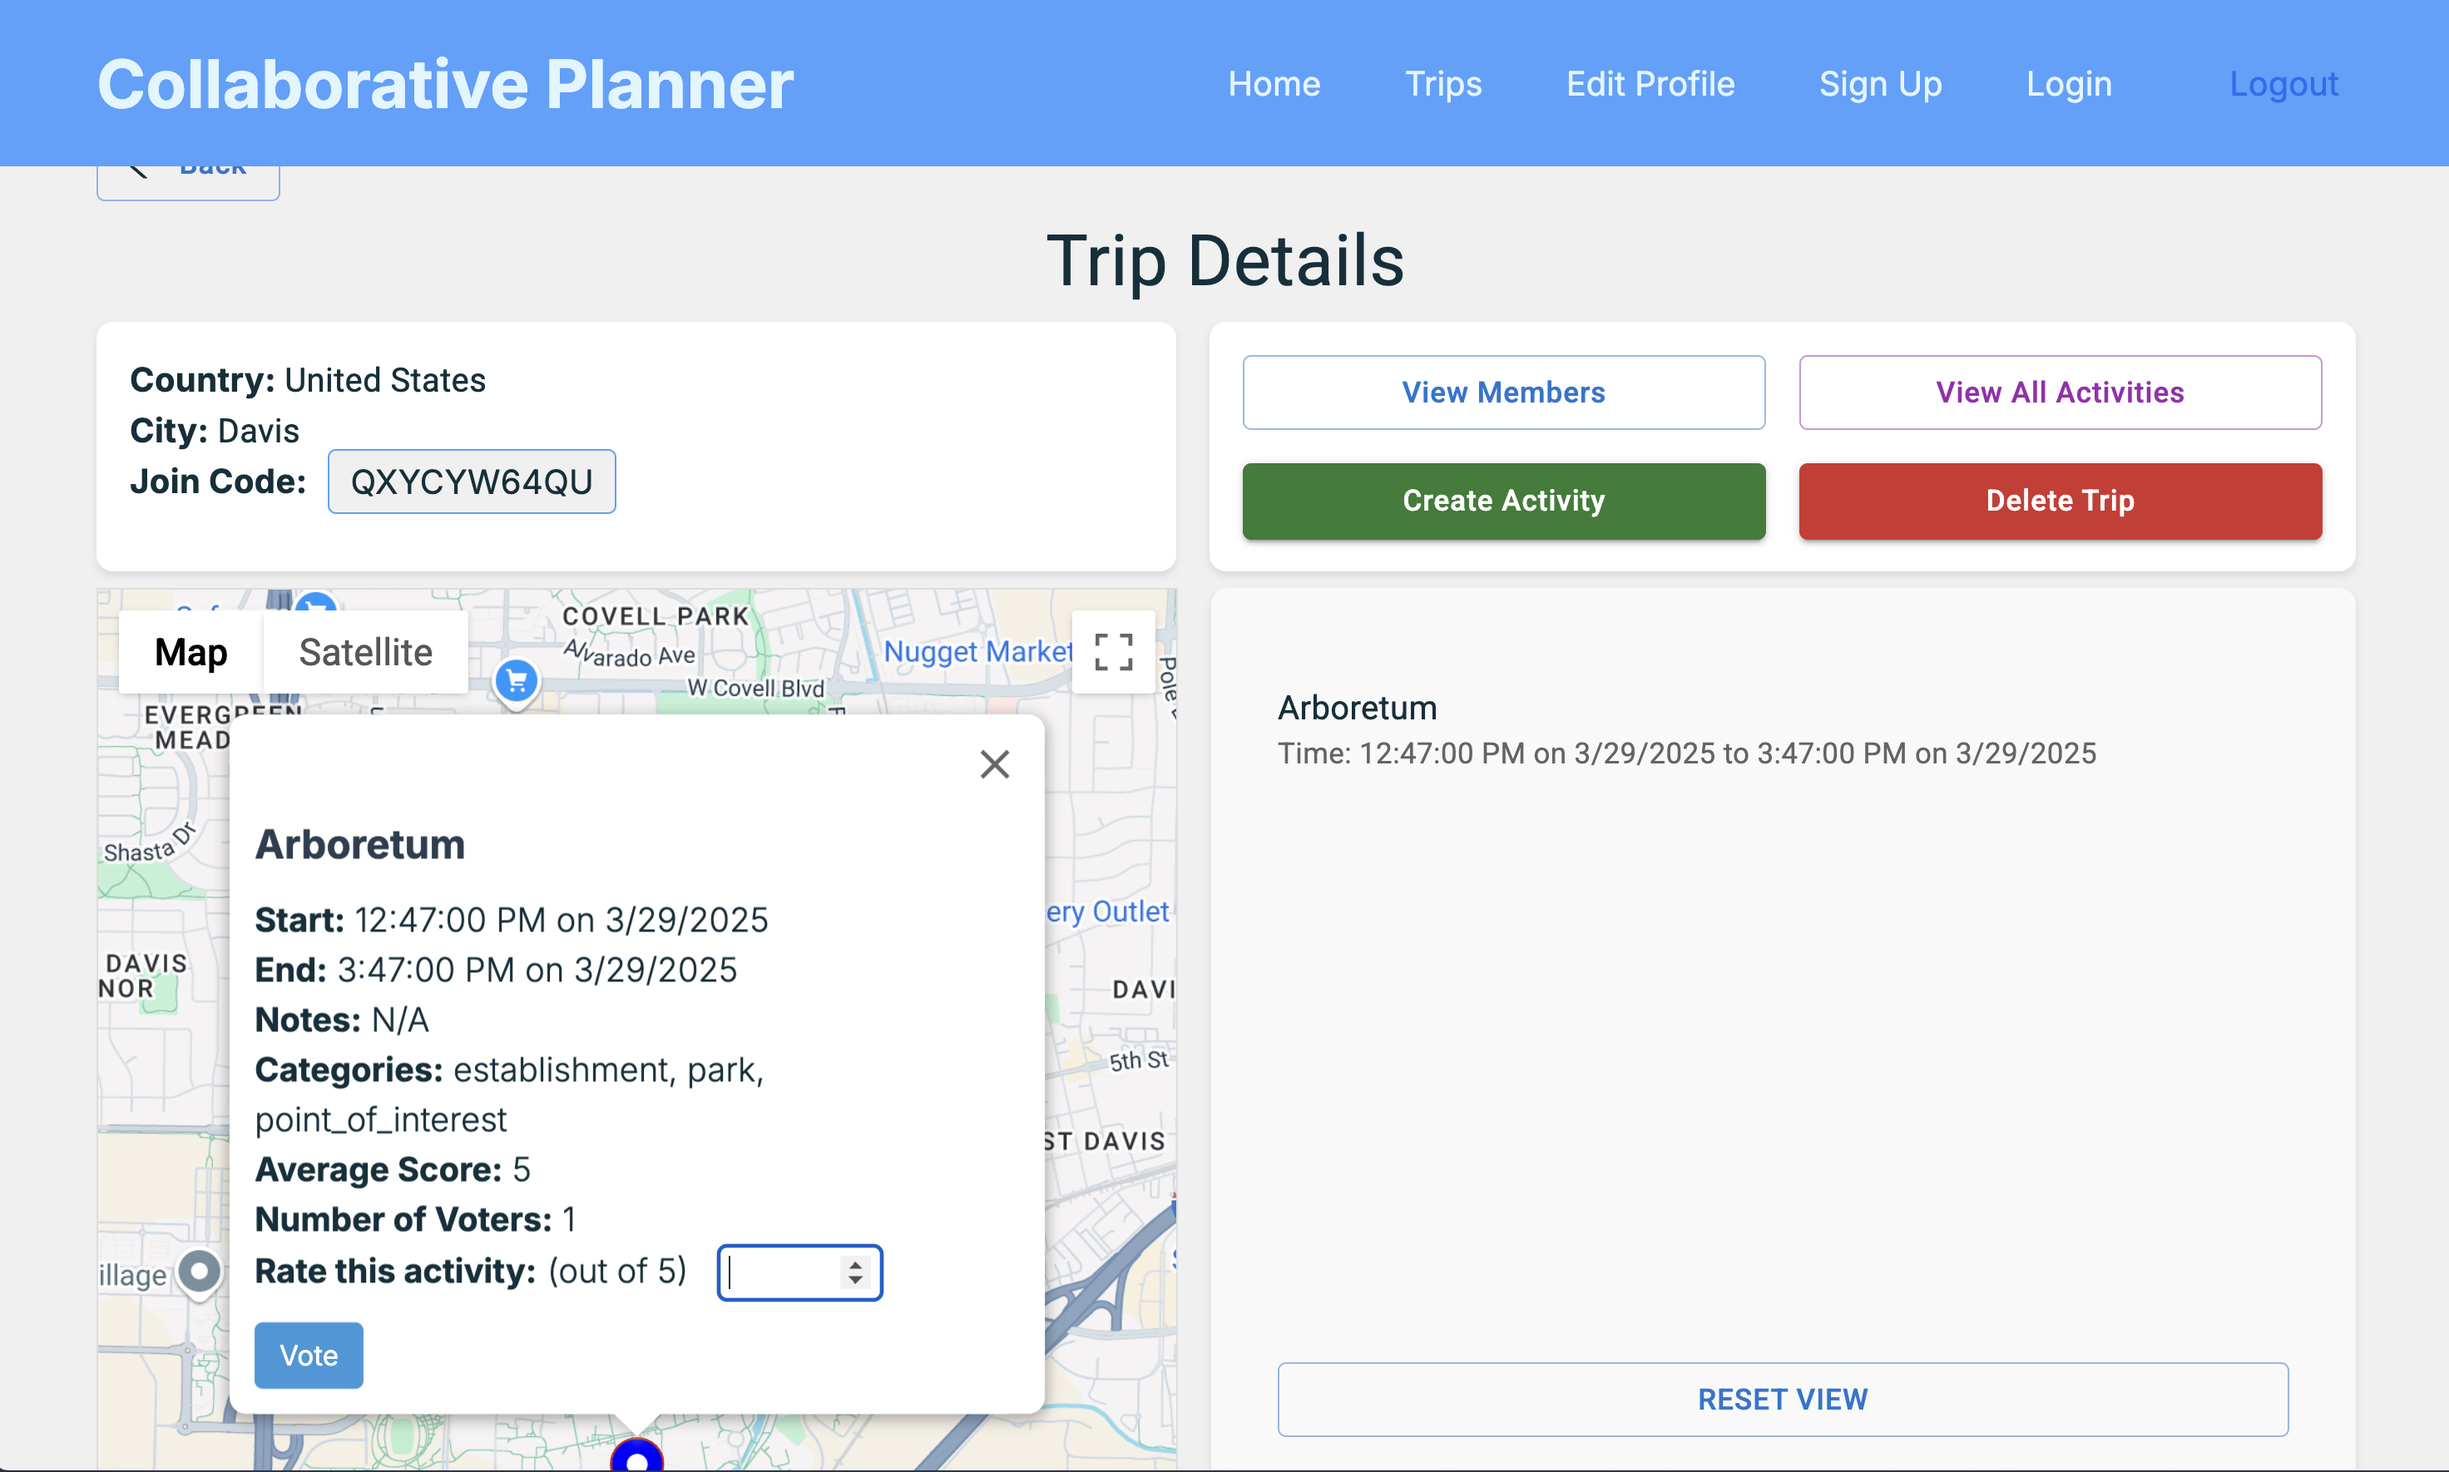
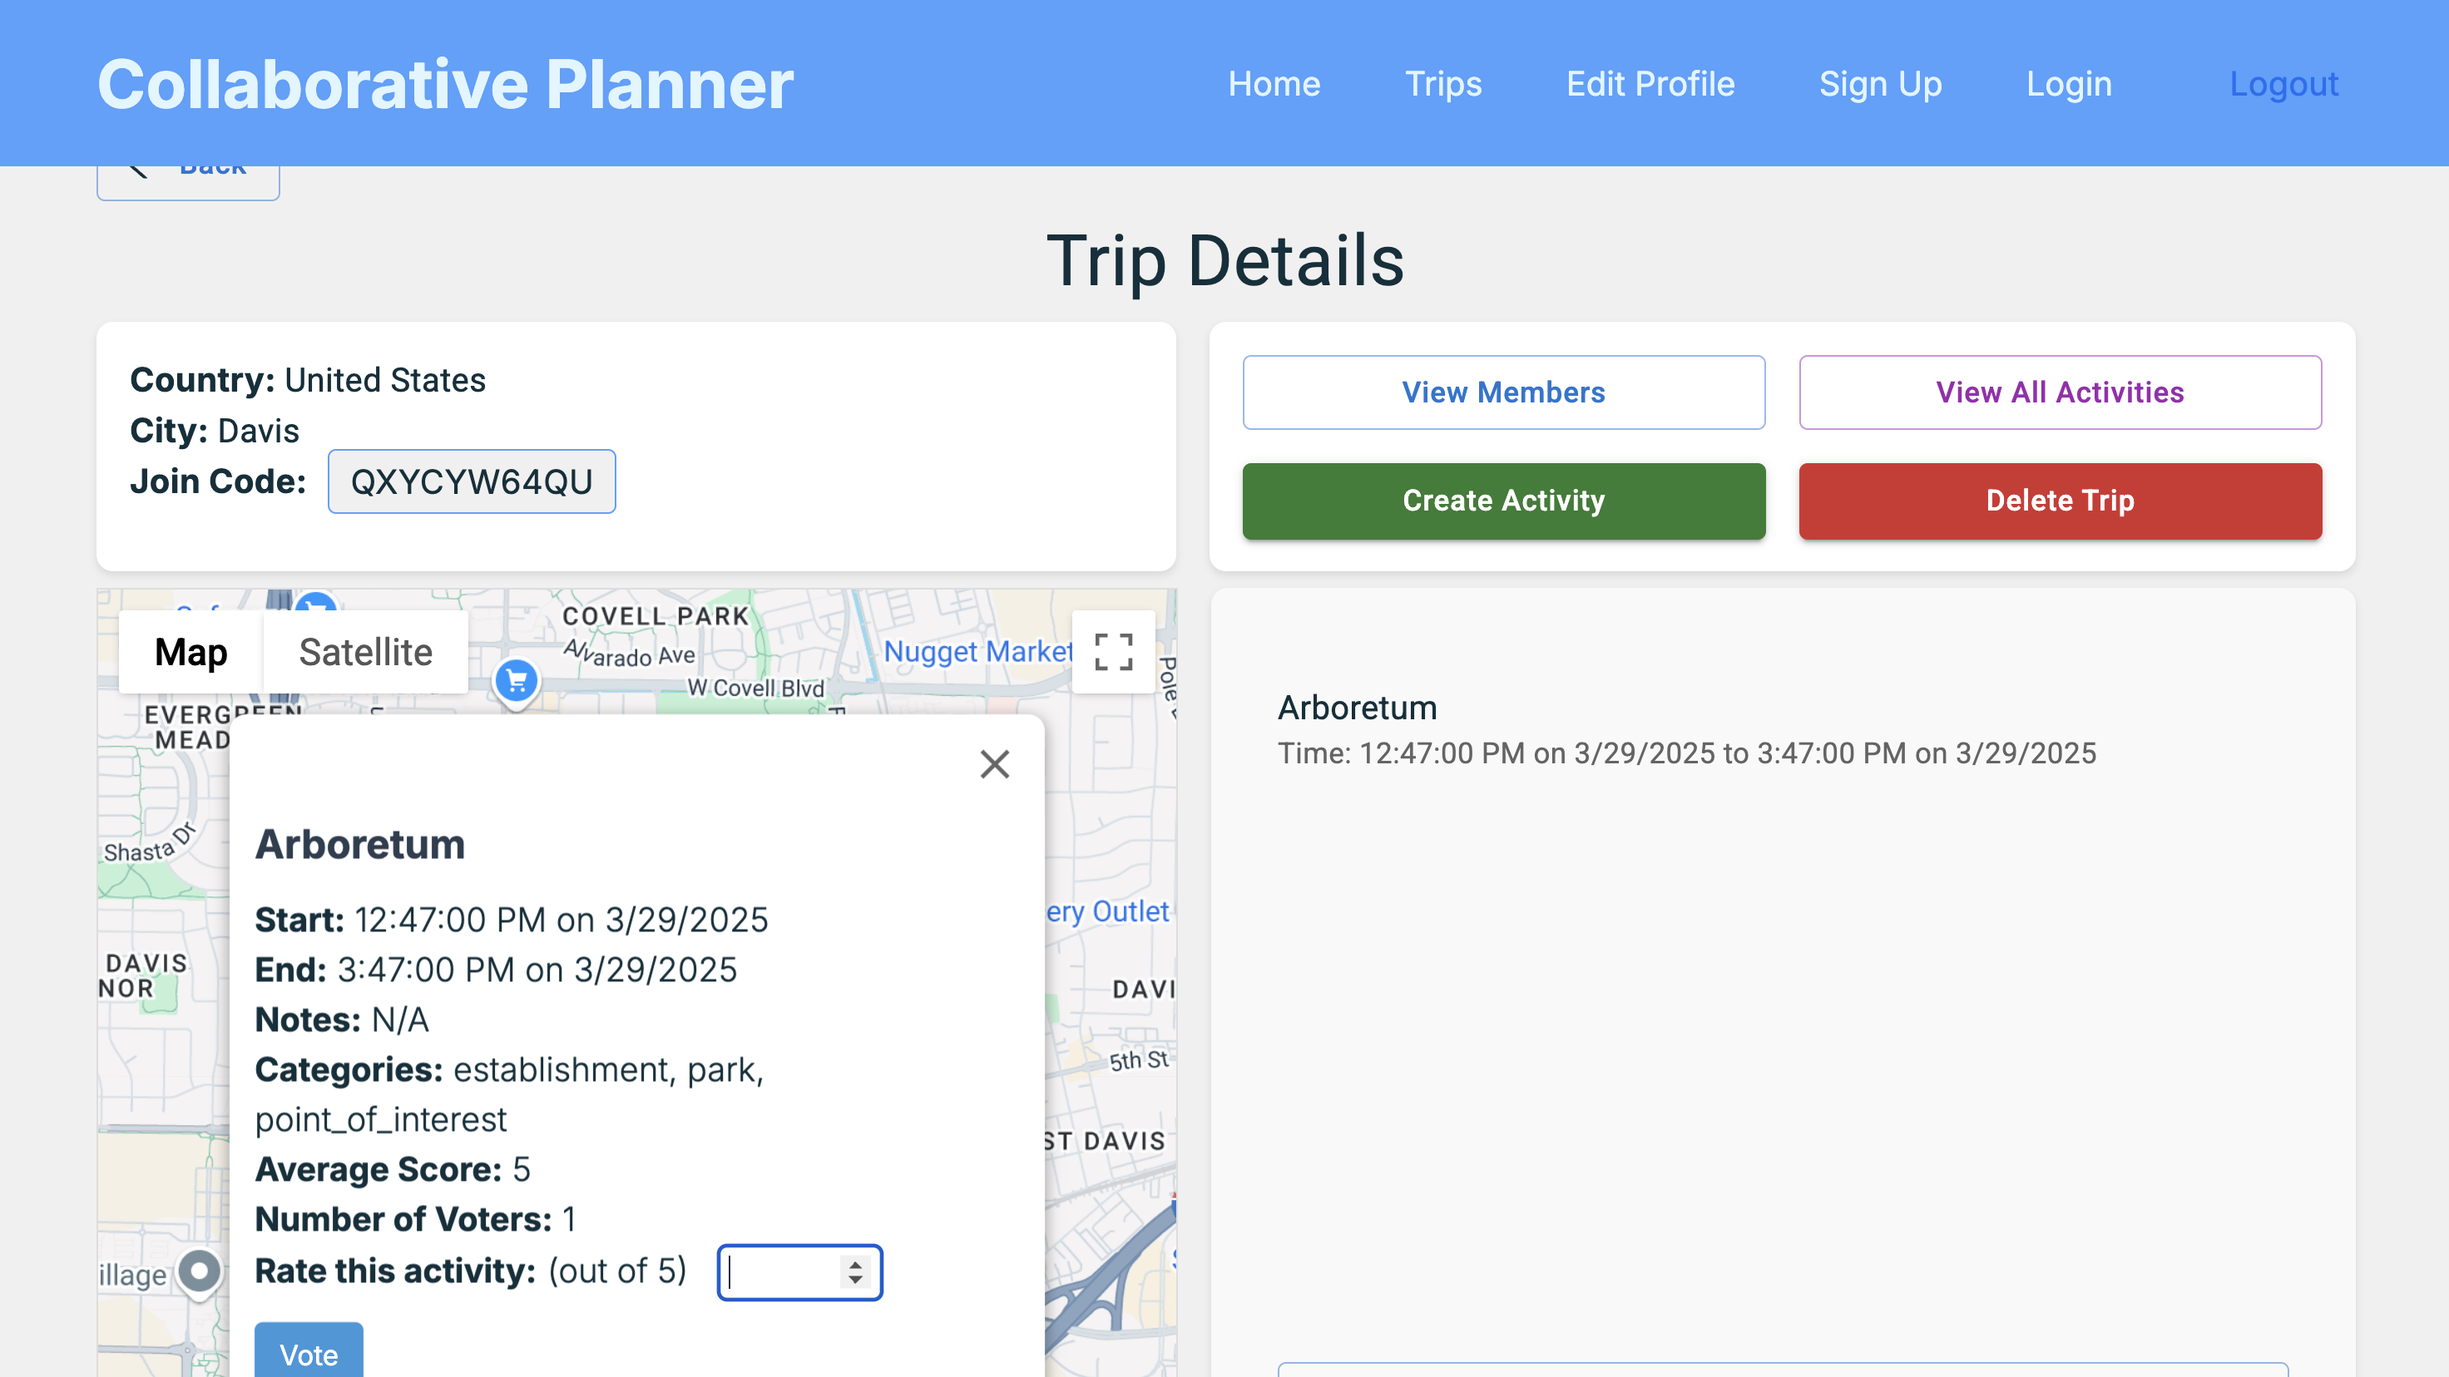
Update image display and cleanup

diff --git a/src/components/Projects/ProjectCard.js b/src/components/Projects/ProjectCard.js
@@ -7,11 +7,11 @@ function ProjectCard({ title, description, extra, imgPath, ghLink, demoLink, dem
     <div className="group h-full flex flex-col bg-dark rounded-xl border border-white/5 overflow-hidden hover:border-accent/20 transition-all duration-300 hover:-translate-y-1">
       {/* Image */}
       {imgPath && (
-        <div className="relative overflow-hidden aspect-video bg-dark-lighter">
+        <div className="relative overflow-hidden aspect-video bg-dark flex items-center justify-center">
           <img
             src={imgPath}
             alt={title}
-            className="w-full h-full object-cover group-hover:scale-105 transition-transform duration-500"
+            className="max-w-full max-h-full object-contain group-hover:scale-105 transition-transform duration-500"
           />
         </div>
       )}
